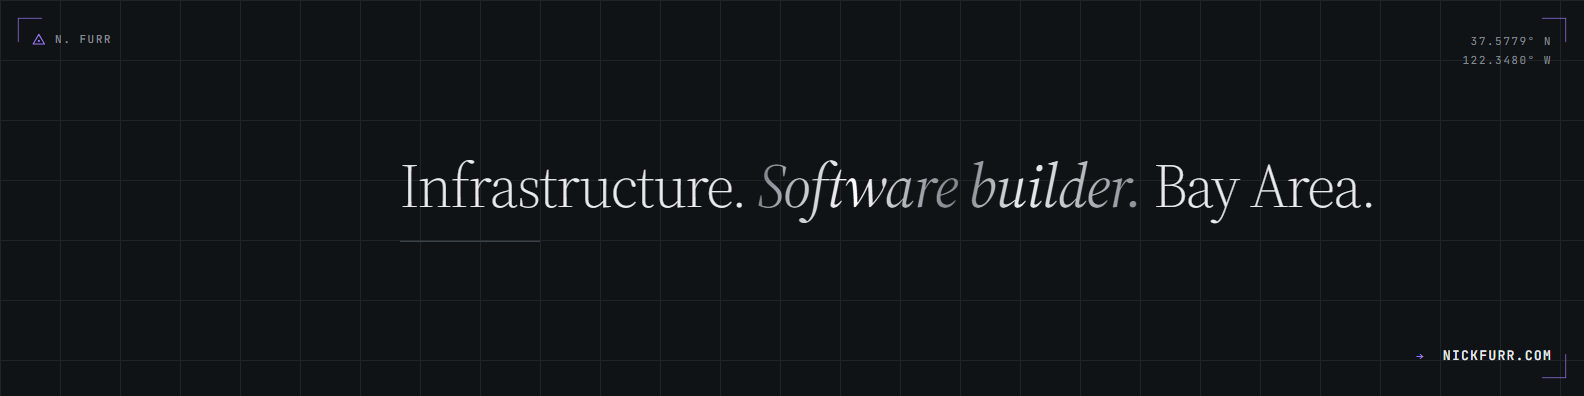
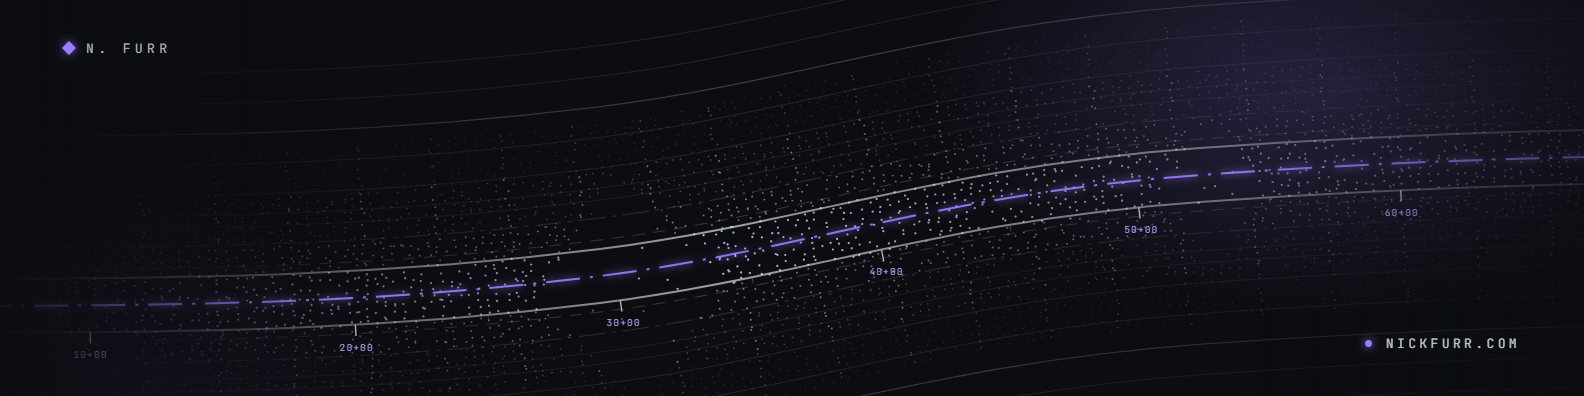
feat: mount the alignment-sheet graphic behind the hero
Adds the generated civil plan-view backdrop (roadway alignment, contours,
right-of-way, station ticks, LiDAR-style point cloud) from the chrome
graphite handoff. Dependency-free and deterministic — seeded LCG, so
every render is identical.

Wired per the handoff: #hero gets position/isolation, #hero-sheet sits at
z-index -1 under a dual mask that fades the graphic left (keeping the
headline legible) and bottom (dissolving into the next section), with
mask-composite: intersect. Opacity drops to .4 below 900px.

Also swaps linkedin-banner.png for the new export, which carries no
tagline and so can't go stale.

diff --git a/alignment-sheet.js b/alignment-sheet.js
@@ -1,0 +1,88 @@
+/* Alignment-sheet backdrop — the LinkedIn banner graphic, reusable.
+   renderAlignmentSheet(target, {labels, occlusion, opacity})
+   Draws into `target` (an element) at a 1584x396 viewBox, scaled to fill. */
+(function(){
+const NS="http://www.w3.org/2000/svg";
+const P="M -80 306 C 220 306 390 302 600 276 C 800 251 940 194 1200 175 C 1380 162 1520 158 1680 155";
+const el=(n,a)=>{const e=document.createElementNS(NS,n);for(const k in a)e.setAttribute(k,a[k]);return e};
+function rng(seed){let s=seed;return()=>{s=(s*1664525+1013904223)%4294967296;return s/4294967296}}
+
+window.renderAlignmentSheet=function(target,opt){
+  opt=opt||{};
+  const labels=opt.labels!==false, occlusion=opt.occlusion!==false;
+  const svg=el('svg',{viewBox:'0 0 1584 396',fill:'none',preserveAspectRatio:opt.preserve||'xMidYMid slice'});
+  svg.setAttribute('aria-hidden','true');
+  svg.style.cssText='position:absolute;inset:0;width:100%;height:100%;display:block';
+  svg.innerHTML='<defs>'
+    +'<filter id="as-glow" x="-20%" y="-200%" width="140%" height="500%"><feGaussianBlur stdDeviation="4" result="b"/><feMerge><feMergeNode in="b"/><feMergeNode in="SourceGraphic"/></feMerge></filter>'
+    +'<linearGradient id="as-fade" x1="0" y1="0" x2="1" y2="0"><stop offset="0" stop-color="#fff" stop-opacity=".15"/><stop offset=".45" stop-color="#fff" stop-opacity="1"/><stop offset="1" stop-color="#fff" stop-opacity=".35"/></linearGradient>'
+    +'<mask id="as-mask"><rect width="1584" height="396" fill="url(#as-fade)"/></mask>'
+    +'</defs>';
+  const gTerrain=el('g',{mask:'url(#as-mask)'}), gTech=el('g',{mask:'url(#as-mask)'}),
+        gRow=el('g',{mask:'url(#as-mask)'}), gPave=el('g',{mask:'url(#as-mask)'}),
+        gTicks=el('g',{}), gCenter=el('g',{}), gLabels=el('g',{});
+  [gTerrain,gTech,gRow,gPave,gTicks,gCenter,gLabels].forEach(g=>svg.appendChild(g));
+  target.appendChild(svg);
+
+  const off=(dy,a)=>el('path',Object.assign({d:P,transform:'translate(0 '+dy+')',fill:'none'},a));
+
+  [-226,-196,-166,-136,-106,106,136,166,196,226,256].forEach(dy=>{
+    const idx=Math.abs(dy)===166;
+    gTerrain.appendChild(off(dy*1.02,{stroke:'#8e979f','stroke-width':idx?1.1:.8,'stroke-opacity':idx?.40:.22}));
+  });
+  [-88,-76,76,88].forEach(dy=>gTerrain.appendChild(off(dy,{stroke:'#8e979f','stroke-width':.8,'stroke-opacity':.17})));
+  [-58,58].forEach(dy=>gRow.appendChild(off(dy,{stroke:'#79828a','stroke-width':.9,'stroke-opacity':.34,'stroke-dasharray':'26 7 4 7'})));
+  [-27,27].forEach(dy=>gPave.appendChild(off(dy,{stroke:'#d3d9de','stroke-width':2,'stroke-opacity':.72})));
+  [-36,36].forEach(dy=>gPave.appendChild(off(dy,{stroke:'#aab2b9','stroke-width':.9,'stroke-opacity':.30,'stroke-dasharray':'12 9'})));
+  gCenter.appendChild(el('path',{d:P,fill:'none',stroke:'#9b7cff','stroke-width':2,'stroke-opacity':.9,'stroke-dasharray':'34 10 3 10',filter:'url(#as-glow)'}));
+
+  const MEAS=el('path',{d:P}); svg.appendChild(MEAS); MEAS.style.display='none';
+  const L=MEAS.getTotalLength();
+  const ptAt=f=>MEAS.getPointAtLength(L*Math.max(0,Math.min(1,f)));
+
+  let sta=0;
+  for(let s=170;s<L-40;s+=132){
+    const a=MEAS.getPointAtLength(s), b=MEAS.getPointAtLength(Math.min(s+1,L));
+    const dx=b.x-a.x, dy=b.y-a.y, len=Math.hypot(dx,dy)||1, nx=-dy/len, ny=dx/len;
+    const major=sta%2===0, h=major?11:6;
+    gTicks.appendChild(el('line',{x1:a.x+nx*27,y1:a.y+ny*27,x2:a.x+nx*(27+h),y2:a.y+ny*(27+h),stroke:major?'#c9d0d6':'#8a9299','stroke-width':major?1.4:.8,'stroke-opacity':major?.85:.5}));
+    if(labels&&major&&a.x>40&&a.x<1450){
+      const t=el('text',{x:a.x+nx*(27+h+13),y:a.y+ny*(27+h+15),fill:'#b9a3ff','font-size':'9.5','font-family':"'JetBrains Mono',ui-monospace,monospace",'letter-spacing':'.12em','text-anchor':'middle','fill-opacity':.92});
+      t.textContent=(10+sta*5)+'+00';
+      gLabels.appendChild(t);
+    }
+    sta++;
+  }
+
+  const r=rng(23), buckets=[[],[],[],[]];
+  const HALF=150, STEPO=7, PASSES=190;
+  let pass=0;
+  for(let f=0;f<=1;f+=1/PASSES,pass++){
+    const a=ptAt(f), b=ptAt(Math.min(1,f+.002));
+    const dx=b.x-a.x, dy=b.y-a.y, len=Math.hypot(dx,dy)||1, nx=-dy/len, ny=dx/len;
+    const section=pass%8===0;
+    let drop=section?.04:.3;
+    let occHalf=0;
+    if(occlusion){
+      const d1=Math.abs(f-.40), d2=Math.abs(f-.735);
+      if(d1<.052)occHalf=(1-d1/.052)*118; else if(d2<.030)occHalf=(1-d2/.030)*74;
+    }
+    for(let o=-HALF;o<=HALF;o+=STEPO){
+      if(r()<drop)continue;
+      if(occHalf&&o>18-occHalf&&o<18+occHalf&&r()<.93)continue;
+      const jit=(r()-.5)*5.5;
+      const x=a.x+nx*(o+jit)+(r()-.5)*4.5, y=a.y+ny*(o+jit)+(r()-.5)*4.5;
+      const ao=Math.abs(o), near=Math.max(0,1-ao/HALF);
+      let bi=ao<30?3:near>.62?2:near>.32?1:0;
+      if(section&&bi<2)bi=Math.min(2,bi+1);
+      buckets[bi].push('M'+x.toFixed(1)+' '+y.toFixed(1)+'h.1');
+    }
+  }
+  const cfg=[['#79838c',.26,1.5],['#98a2ab',.38,1.7],['#c3cad2',.58,1.9],['#d9cfff',.85,2.2]];
+  buckets.forEach((b,i)=>{
+    if(!b.length)return;
+    gTech.appendChild(el('path',{d:b.join(''),stroke:cfg[i][0],'stroke-opacity':cfg[i][1],'stroke-width':cfg[i][2],'stroke-linecap':'round',fill:'none'}));
+  });
+  return svg;
+};
+})();

diff --git a/index.html b/index.html
@@ -969,6 +969,12 @@
 .booking-card h3{color:#f1f3f5;}
 footer{background:#0c0e11;color:#838a90;border-top-color:#262b30;}
 footer a:hover{color:#e9ecef;}
+/* alignment-sheet hero backdrop */
+#hero{position:relative;overflow:hidden;isolation:isolate}
+#hero-sheet{position:absolute;left:0;right:0;bottom:0;width:100%;height:100%;z-index:-1;opacity:.62;-webkit-mask-image:linear-gradient(100deg,transparent 0%,rgba(0,0,0,.35) 26%,#000 62%),linear-gradient(180deg,#000 62%,transparent 100%);mask-image:linear-gradient(100deg,transparent 0%,rgba(0,0,0,.35) 26%,#000 62%),linear-gradient(180deg,#000 62%,transparent 100%);-webkit-mask-composite:source-in;mask-composite:intersect}
+#hero-sheet::after{content:'';position:absolute;inset:0;background:radial-gradient(680px 380px at 88% 30%,rgba(155,124,255,.16),transparent 64%)}
+#hero .wrap{position:relative;z-index:1}
+@media (max-width:900px){#hero-sheet{opacity:.4}}
 </style>
 </head>
 <body>
@@ -986,6 +992,7 @@ footer a:hover{color:#e9ecef;}
 
 <!-- ─────────── Hero ─────────── -->
 <section id="hero">
+  <div id="hero-sheet" aria-hidden="true"></div>
   <div class="wrap">
     <div class="hero-grid">
       <h1 class="hero-lede">
@@ -1356,6 +1363,9 @@ footer a:hover{color:#e9ecef;}
     </div>
   </div>
 </footer>
+
+<script src="alignment-sheet.js"></script>
+<script>renderAlignmentSheet(document.getElementById('hero-sheet'),{labels:false,preserve:'xMidYMax slice'});</script>
 
 </body>
 </html>
